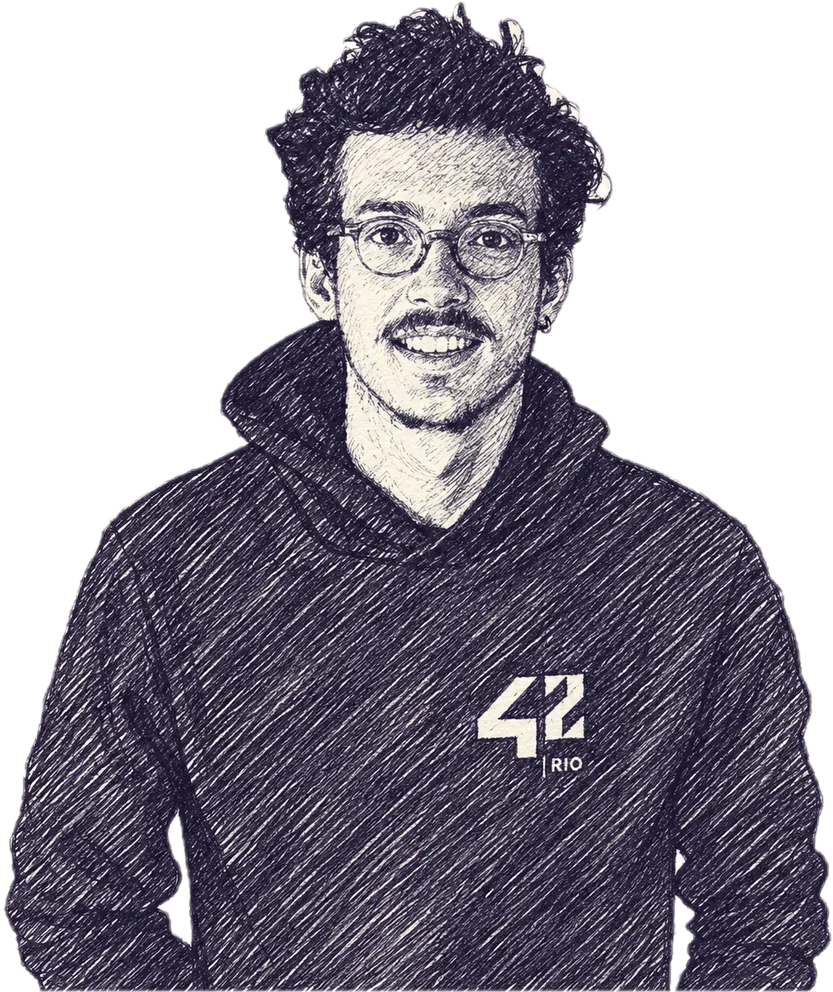
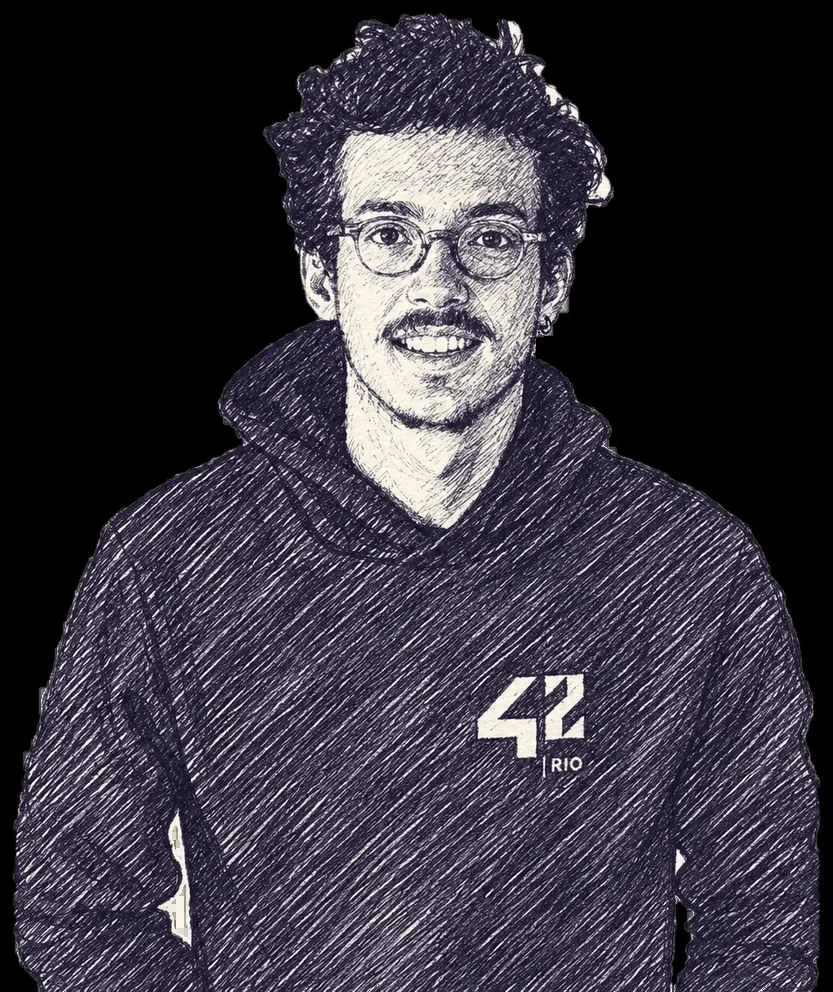
Revert solid-black page canvas; put About portrait on black
Pedro asked to edit the image, not the website chrome. Restores
the body glow and HUD grid removed in 377c2e8, and composites
the About portrait onto #000.

diff --git a/src/styles/global.css b/src/styles/global.css
@@ -1,21 +1,29 @@
 @import './tokens.css';
 
 *, *::before, *::after { box-sizing: border-box; }
-html {
-  background-color: #000000;
-  background: var(--bg);
-  scroll-behavior: smooth;
-}
+html { background: var(--bg); scroll-behavior: smooth; }
 @media (prefers-reduced-motion: reduce) { html { scroll-behavior: auto; } *, *::before, *::after { animation: none !important; transition: none !important; } }
 body {
   margin: 0; color: var(--text);
   font-family: var(--font-body); font-size: 1.0625rem; line-height: 1.65;
   -webkit-font-smoothing: antialiased; text-rendering: optimizeLegibility;
   min-height: 100dvh; display: flex; flex-direction: column;
-  background-color: #000000;
-  background: var(--bg);
+  background:
+    radial-gradient(60rem 30rem at 85% -10%, var(--glow-1), transparent 60%),
+    radial-gradient(50rem 28rem at -10% 10%, var(--glow-2), transparent 60%),
+    var(--bg);
 }
 ::selection { background: var(--selection); }
+/* faint HUD grid behind everything */
+body::before {
+  content: ''; position: fixed; inset: 0; pointer-events: none; z-index: 0; opacity: .35;
+  background-image:
+    linear-gradient(rgb(var(--accent-rgb) / 0.045) 1px, transparent 1px),
+    linear-gradient(90deg, rgb(var(--accent-rgb) / 0.045) 1px, transparent 1px);
+  background-size: 48px 48px;
+  mask-image: linear-gradient(180deg, rgba(0,0,0,.9), rgba(0,0,0,.2) 60%, transparent);
+  -webkit-mask-image: linear-gradient(180deg, rgba(0,0,0,.9), rgba(0,0,0,.2) 60%, transparent);
+}
 main { flex: 1; }
 
 h1, h2, h3, h4 { font-family: var(--font-display); line-height: 1.12; letter-spacing: -0.015em; color: var(--brush); text-wrap: balance; }
